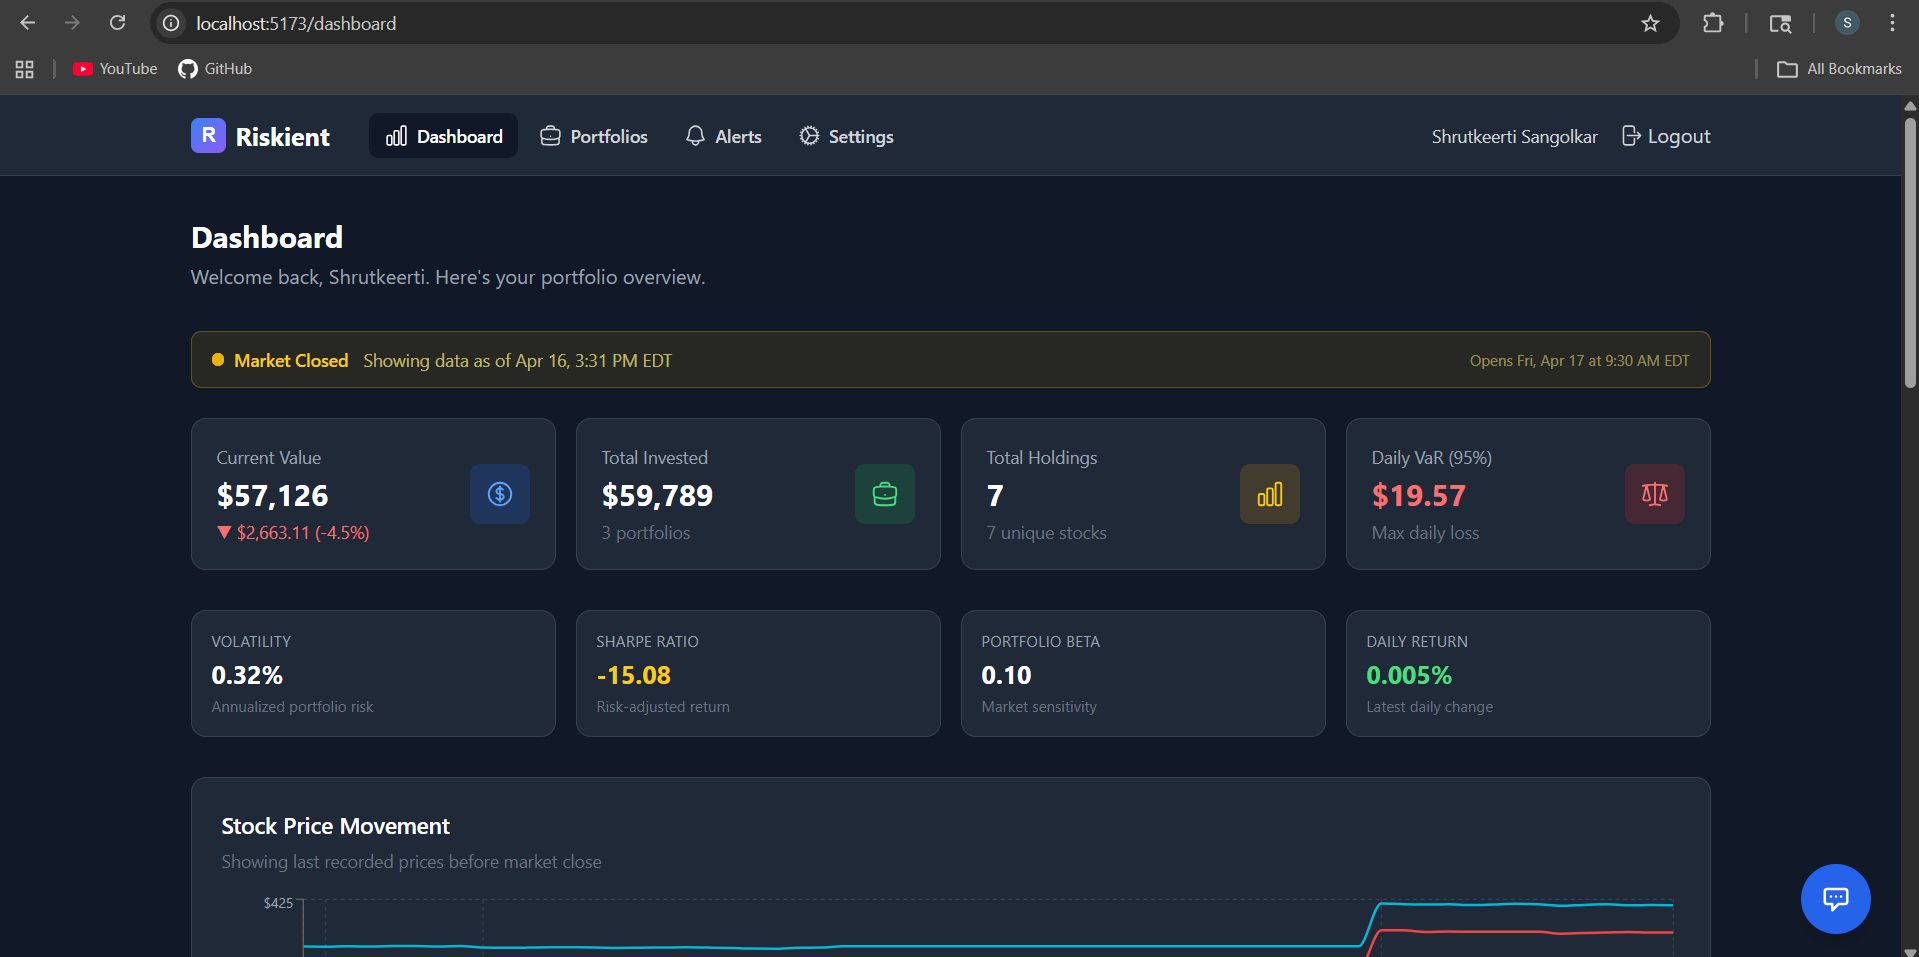
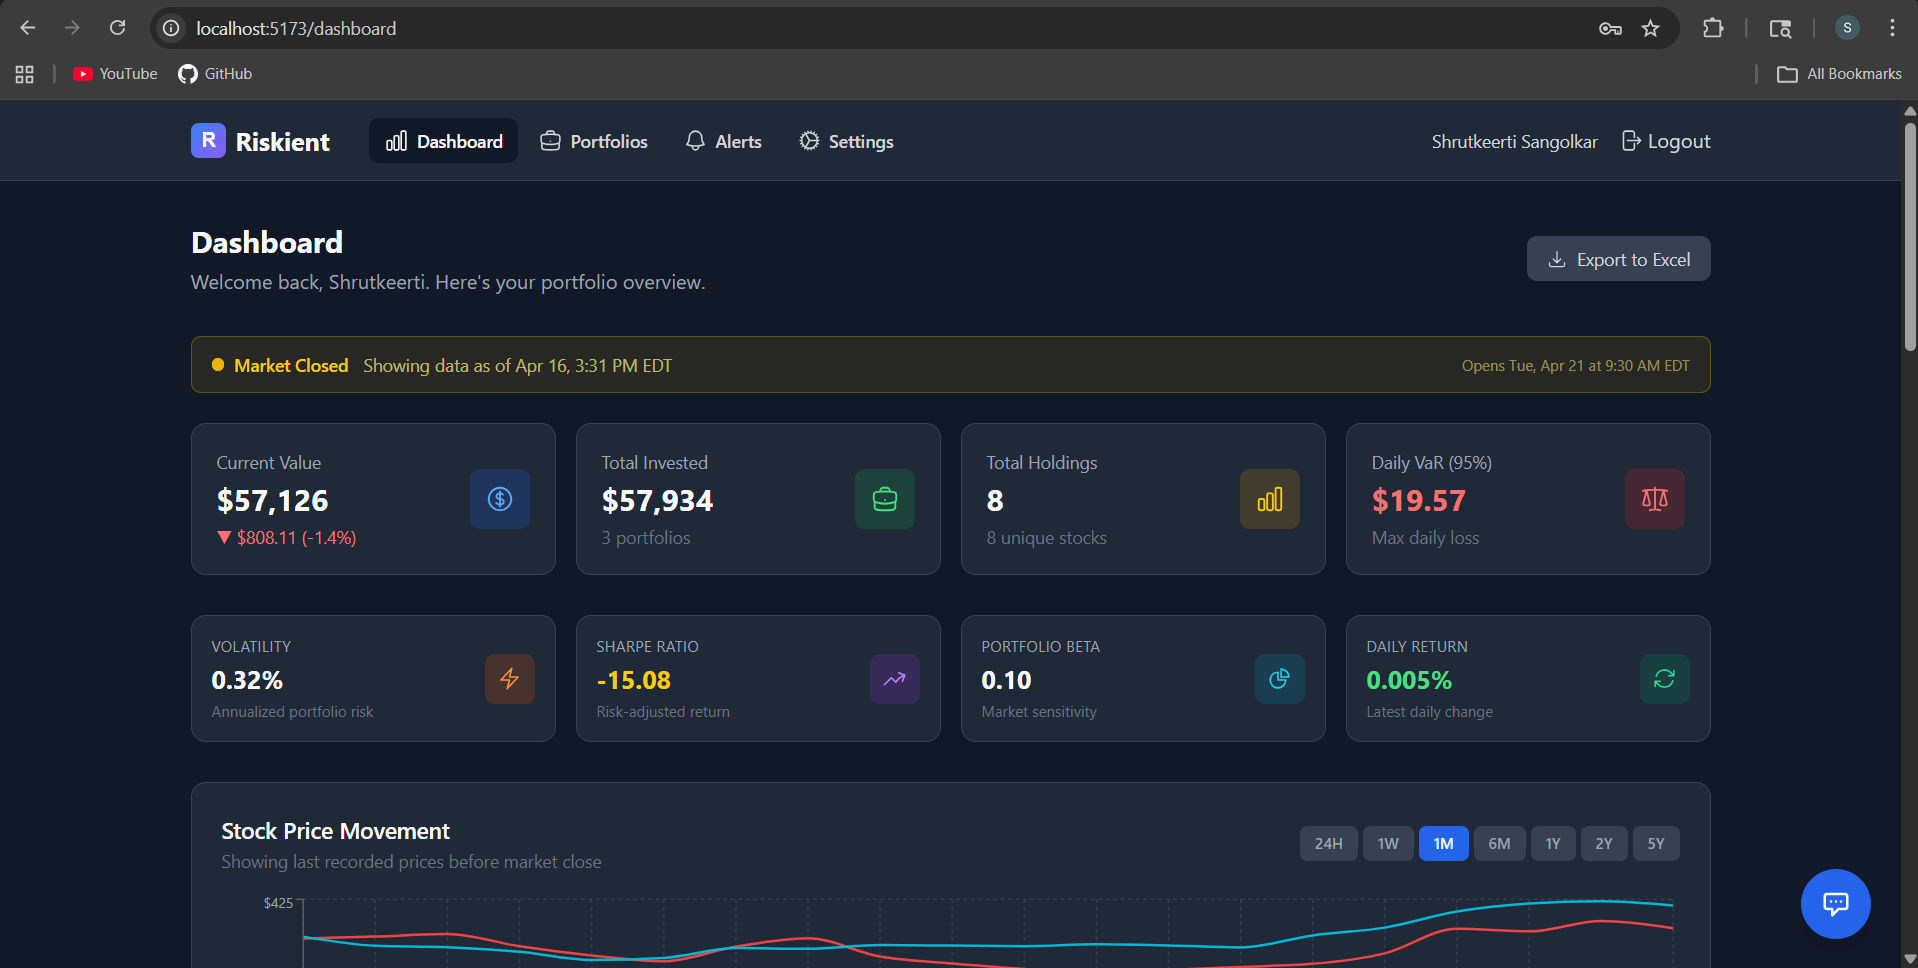
update README file

diff --git a/README.md b/README.md
@@ -28,8 +28,18 @@ Risk metrics persist from last market session instead of resetting to zero.
 
 ![Dashboard Market Closed](screenshots/dashboard-market-closed.png)
 
+### Stock Price Chart with Timeline Selector
+Historical market prices from Yahoo Finance with 24H, 1W, 1M, 6M, 1Y, 2Y, and 5Y range options.
+
+![Line Chart](screenshots/line-chart.png)
+
 ### Portfolio Management
 ![Portfolios](screenshots/portfolios.png)
+
+### Holdings — Add, Buy More & Sell
+| Add Holding | Buy More | Sell Shares |
+|-------------|----------|-------------|
+| ![Add Holding](screenshots/add-holding.png) | ![Buy Holding](screenshots/buy-holding.png) | ![Sell Holding](screenshots/sell-holding.png) |
 
 ### Holdings
 Live P/L tracking with color-coded performance bars.
@@ -39,9 +49,11 @@ Live P/L tracking with color-coded performance bars.
 ### Alert Rules & Settings
 | Alert Rules | Set Alert Rule | Settings |
 |-------------|---------------|----------|
-| ![Alert Rules](screenshots/alert%20rules.png) | ![Set Alert Rules](screenshots/set%20alert%20rules.png) | ![Settings](screenshots/settings.png) |
+| ![Alert Rules](screenshots/set%20alert%20rules.png) | ![Set Alert](screenshots/set-alert.png) | ![Settings](screenshots/settings.png) |
 
 ### Notifications
+Grouped duplicate alerts with expand/collapse and bulk actions.
+
 ![Notifications](screenshots/notifications.png)
 
 ### AI Portfolio Analyst
@@ -49,19 +61,27 @@ Natural language portfolio analysis powered by Groq/Llama AI.
 
 ![AI Assistant](screenshots/ai_assistant.png)
 
+### Footer
+![Footer](screenshots/footer.png)
+
 ---
 
 ## Features
 
 - **User Authentication** — JWT-based auth with email OTP verification, password strength validation, and email alias normalization
-- **Portfolio Management** — Create portfolios, add/remove stock holdings, track buy/sell transactions with real-time P/L tracking
+- **Portfolio Management** — Create portfolios, add/remove stock holdings, buy more/sell shares with weighted average cost recalculation
+- **Transaction History** — Full buy/sell transaction log per holding with date, quantity, price, and total amount tracking
 - **Real-Time Market Data** — Live stock prices streamed via Kafka from the Finnhub API, updated every 30 seconds
+- **Historical Price Charts** — Interactive stock price charts powered by Yahoo Finance with selectable time ranges (24H, 1W, 1M, 6M, 1Y, 2Y, 5Y)
 - **Risk Analytics** — Automated calculation of Volatility, Sharpe Ratio, Value at Risk (VaR), and Portfolio Beta
-- **Interactive Dashboard** — Summary cards, asset allocation pie chart, invested vs current value comparison, stock price movement chart
-- **Custom Alert Rules** — User-configurable thresholds for volatility, VaR, Sharpe ratio, and beta with real-time evaluation
-- **Notifications** — Automated alerts via RabbitMQ when risk metrics exceed user-defined thresholds
+- **Market Hours Detection** — Automatically detects market open/close (Mon–Fri 9:30 AM–4:00 PM ET), preserves last meaningful risk snapshot after hours
+- **Market Status Banner** — Real-time market open/closed indicator with next open/close time and pulsing live data indicator
+- **Interactive Dashboard** — Summary cards with icons, asset allocation pie chart, invested vs current value comparison, and multi-stock price movement chart
+- **Custom Alert Rules** — User-configurable thresholds for volatility, VaR, Sharpe ratio, beta, and daily return with 1-hour cooldown to prevent spam
+- **Grouped Notifications** — Duplicate alerts are collapsed with expand/collapse, bulk mark-as-read, and delete-all functionality
 - **AI Portfolio Analyst** — Natural language portfolio analysis powered by Groq/Llama AI — ask questions about allocation, risk, and diversification
-- **Role-Based Access** — Clients see their own portfolios; Advisors manage multiple client portfolios
+- **Excel Export** — Export all portfolios, holdings, transactions, and risk metrics to Excel from the dashboard or per-portfolio
+- **Role-Based Access** — Clients see their own portfolios; Advisors can manage multiple client portfolios
 - **Responsive Design** — Mobile-friendly with hamburger menu and horizontal scrolling tables
 - **CI/CD Pipeline** — Automated build verification via GitHub Actions on every push
 
@@ -74,7 +94,7 @@ The platform follows an event-driven microservices architecture with three indep
 ```
 [Finnhub API] → [Risk Engine] → [Kafka] → [Risk Calculator] → [Redis + PostgreSQL]
                                                   ↓
-                                            [RabbitMQ] → [Notification Service]
+[Yahoo Finance] → [Historical Prices]       [RabbitMQ] → [Notification Service]
                                                   ↓
 [React Dashboard] ← REST APIs ← [Portfolio Service] ← [Redis Cache]
 ```
@@ -83,20 +103,20 @@ The platform follows an event-driven microservices architecture with three indep
 
 ## Tech Stack
 
-| Layer        | Technology                                                  |
-|--------------|-------------------------------------------------------------|
-| Backend      | Java 21, Spring Boot 3.5, Spring Security, Spring Data JPA  |
-| Streaming    | Apache Kafka (real-time price feeds)                        |
-| Messaging    | RabbitMQ (alerts & task queues)                             |
-| Caching      | Redis (current prices & risk metrics)                       |
-| Database     | PostgreSQL 15                                               |
-| Frontend     | React 18, Vite, Recharts, Tailwind CSS, Axios               |
-| AI           | Groq API (Llama 3.3 70B) for portfolio analysis             |
-| Containers   | Docker + Docker Compose                                     |
-| CI/CD        | GitHub Actions                                              |
-| API Docs     | Springdoc OpenAPI (Swagger UI)                              |
-| Testing      | JUnit 5, Mockito                                            |
-| External API | Finnhub (real-time stock data)                              |
+| Layer        | Technology                                                        |
+|--------------|-------------------------------------------------------------------|
+| Backend      | Java 21, Spring Boot 3.5, Spring Security, Spring Data JPA        |
+| Streaming    | Apache Kafka (real-time price feeds)                              |
+| Messaging    | RabbitMQ (alerts & task queues)                                   |
+| Caching      | Redis (current prices & risk metrics)                             |
+| Database     | PostgreSQL 15                                                     |
+| Frontend     | React 18, Vite, Recharts, Tailwind CSS, Axios                     |
+| AI           | Groq API (Llama 3.3 70B) for portfolio analysis                   |
+| Containers   | Docker + Docker Compose                                           |
+| CI/CD        | GitHub Actions                                                    |
+| API Docs     | Springdoc OpenAPI (Swagger UI)                                    |
+| Testing      | JUnit 5, Mockito                                                  |
+| External API | Finnhub (real-time stock data), Yahoo Finance (historical prices) |
 
 ---
 
@@ -104,7 +124,7 @@ The platform follows an event-driven microservices architecture with three indep
 
 | Service                  | Port | Responsibility                                                                 |
 |--------------------------|------|--------------------------------------------------------------------------------|
-| **Portfolio Service**    | 8081 | User auth (JWT+OTP), portfolio CRUD, holdings management, WebSocket broadcaster    |
+| **Portfolio Service**    | 8081 | User auth (JWT+OTP), portfolio CRUD, holdings management, WebSocket broadcaster|
 | **Risk Engine Service**  | 8082 | Price fetching (Finnhub), Kafka streaming, risk calculations, alert evaluation |
 | **Notification Service** | 8083 | RabbitMQ consumer, alert processing, notification storage & delivery           |
 
@@ -126,17 +146,20 @@ The platform follows an event-driven microservices architecture with three indep
 
 ### Portfolios & Holdings (Port 8081)
 
-| Method | Endpoint                               | Description            | Auth |
-|--------|----------------------------------------|------------------------|------|
-| GET    | `/api/portfolios`                      | Get all portfolios     | Yes  |
-| POST   | `/api/portfolios`                      | Create portfolio       | Yes  |
-| GET    | `/api/portfolios/{id}`                 | Get portfolio detail   | Yes  |
-| PUT    | `/api/portfolios/{id}`                 | Update portfolio       | Yes  |
-| DELETE | `/api/portfolios/{id}`                 | Delete portfolio       | Yes  |
-| GET    | `/api/portfolios/{id}/holdings`        | Get holdings           | Yes  |
-| POST   | `/api/portfolios/{id}/holdings`        | Add holding            | Yes  |
-| DELETE | `/api/portfolios/holdings/{holdingId}` | Remove holding         | Yes  |
-| GET    | `/api/portfolios/{id}/transactions`    | Get transactions       | Yes  |
+| Method | Endpoint                                            | Description                        | Auth |
+|--------|-----------------------------------------------------|------------------------------------|------|
+| GET    | `/api/portfolios`                                   | Get all portfolios                 | Yes  |
+| POST   | `/api/portfolios`                                   | Create portfolio                   | Yes  |
+| GET    | `/api/portfolios/{id}`                              | Get portfolio detail               | Yes  |
+| PUT    | `/api/portfolios/{id}`                              | Update portfolio                   | Yes  |
+| DELETE | `/api/portfolios/{id}`                              | Delete portfolio                   | Yes  |
+| GET    | `/api/portfolios/{id}/holdings`                     | Get holdings                       | Yes  |
+| POST   | `/api/portfolios/{id}/holdings`                     | Add holding (with purchase date)   | Yes  |
+| PUT    | `/api/portfolios/holdings/{holdingId}`              | Update holding                     | Yes  |
+| DELETE | `/api/portfolios/holdings/{holdingId}`              | Remove holding                     | Yes  |
+| POST   | `/api/portfolios/holdings/{holdingId}/transactions` | Buy more or sell shares            | Yes  |
+| GET    | `/api/portfolios/holdings/{holdingId}/transactions` | Get holding transaction history    | Yes  |
+| GET    | `/api/portfolios/{id}/transactions`                 | Get all portfolio transactions     | Yes  |
 
 ### AI Chat (Port 8081)
 
@@ -146,14 +169,17 @@ The platform follows an event-driven microservices architecture with three indep
 
 ### Risk Engine (Port 8082)
 
-| Method | Endpoint                                    | Description                   |
-|--------|---------------------------------------------|-------------------------------|
-| GET    | `/api/risk/portfolio/{portfolioId}`         | Get latest risk metrics       |
-| GET    | `/api/risk/portfolio/{portfolioId}/history` | Get historical risk snapshots |
-| GET    | `/api/risk/prices/{symbol}`                 | Get latest stock price        |
-| GET    | `/api/risk/prices?symbols=AAPL,GOOGL`      | Get prices for multiple stocks|
-| GET    | `/api/risk/prices/{symbol}/history`         | Get stock price history       |
-| GET    | `/api/risk/health`                          | Service health check          |
+| Method | Endpoint                                    | Description                            |
+|--------|---------------------------------------------|----------------------------------------|
+| GET    | `/api/risk/portfolio/{portfolioId}`         | Get latest risk metrics                |
+| GET    | `/api/risk/portfolio/{portfolioId}/history` | Get historical risk snapshots          |
+| POST   | `/api/risk/calculate/{portfolioId}`         | Trigger risk recalculation             |
+| GET    | `/api/risk/market-status`                   | Get market open/close status           |
+| GET    | `/api/risk/prices/{symbol}`                 | Get latest stock price                 |
+| GET    | `/api/risk/prices?symbols=AAPL,GOOGL`       | Get prices for multiple stocks         |
+| GET    | `/api/risk/prices/{symbol}/history`         | Get stock price history (DB)           |
+| GET    | `/api/risk/prices/{symbol}/candles`         | Get historical candles (Yahoo Finance) |
+| GET    | `/api/risk/health`                          | Service health check                   |
 
 ### Notifications & Alerts (Port 8083)
 
@@ -200,9 +226,11 @@ The platform follows an event-driven microservices architecture with three indep
 3. **Risk Calculation** — Kafka consumer triggers risk recalculation for affected portfolios
 4. **Storage** — Risk snapshots saved to PostgreSQL, current prices cached in Redis
 5. **Market Hours Check** — After market close (4:00 PM ET), risk engine preserves last meaningful snapshot instead of overwriting with zeros
-6. **Alert Evaluation** — Notification Service evaluates user-defined alert rules against current metrics
-7. **Alert Delivery** — Triggered alerts sent via RabbitMQ and stored as notifications
-8. **Dashboard** — Frontend fetches data every 30 seconds, displaying live charts and P/L
+6. **Historical Prices** — Yahoo Finance provides historical candle data (24H to 5Y) for the interactive chart, independent of when the service was running
+7. **Alert Evaluation** — Notification Service evaluates user-defined alert rules against current metrics with 1-hour cooldown to prevent duplicate alerts
+8. **Alert Delivery** — Triggered alerts sent via RabbitMQ, stored as notifications, and grouped on the frontend
+9. **Dashboard** — Frontend fetches data every 30 seconds, displays live charts, P/L, market status, and supports Excel export
+10. **Transaction Tracking** — Buy/sell transactions are recorded with dates and prices, holdings auto-update with weighted average cost basis
 
 ---
 
@@ -211,21 +239,30 @@ The platform follows an event-driven microservices architecture with three indep
 -  [x] Project setup & Docker Compose (PostgreSQL, Redis, Kafka, Zookeeper, RabbitMQ)
 - [x] Portfolio Service — JWT Authentication with email OTP verification
 - [x] Portfolio Service — Portfolio, Holdings & Transaction CRUD APIs
+- [x] Portfolio Service — Buy more / sell shares with weighted avg cost recalculation
+- [x] Portfolio Service — Transaction history per holding with purchase dates
 - [x] Risk Engine — Finnhub API integration (real-time stock prices)
 - [x] Risk Engine — Apache Kafka producer/consumer (price streaming)
 - [x] Risk Engine — Risk calculation engine (Volatility, Sharpe, VaR, Beta)
 - [x] Risk Engine — Stock price history API
 - [x] Risk Engine — Market hours detection with risk metric persistence
 - [x] Risk Engine — Market status API endpoint
+- [x] Risk Engine — Yahoo Finance integration for historical price charts
 - [x] Notification Service — RabbitMQ alert pipeline
 - [x] Notification Service — Custom alert rules with configurable thresholds
+- [x] Notification Service — 1-hour alert cooldown to prevent notification spam
 - [x] React Frontend — Auth pages (Login, Register, Email Verification)
 - [x] React Frontend — Dashboard with charts, risk metrics, and live P/L
 - [x] React Frontend — Market open/closed status banner with live indicator
-- [x] React Frontend — Deduplicated chart timeline labels
+- [x] React Frontend — Interactive price chart with timeline selector (24H to 5Y)
+- [x] React Frontend — Portfolio detail with buy/sell transactions and history
+- [x] React Frontend — Excel export (dashboard-wide and per-portfolio)
+- [x] React Frontend — Grouped notifications with expand/collapse and delete all
+- [x] React Frontend — Risk metric cards with icons
 - [x] React Frontend — Portfolio management with real-time stock prices
 - [x] React Frontend — Notifications page with alert display
 - [x] React Frontend — Settings page with alert rule management
+- [x] React Frontend — Footer with brand, links, and social icons
 - [x] AI-Powered Portfolio Analyst (Groq/Llama integration)
 - [x] Responsive design with mobile support
 - [x] CI/CD Pipeline (GitHub Actions)
